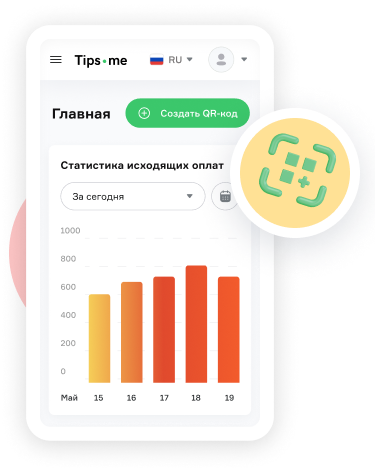
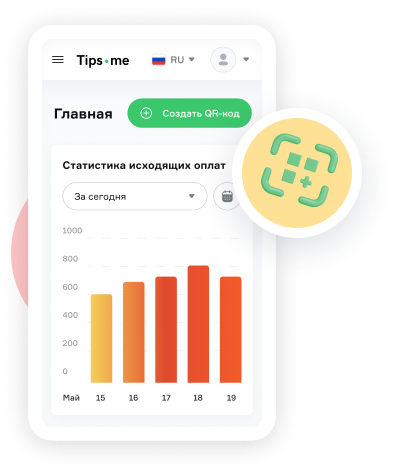
fix image in PageBanner

diff --git a/src/landing/components/PageBanner/PageBanner.jsx b/src/landing/components/PageBanner/PageBanner.jsx
@@ -1,19 +1,23 @@
-import { useMediaQuery } from 'react-responsive'
-import Img from 'next/image'
+import Image from 'next/image'
 
 import * as S from './PageBanner.styled'
 
 import CheckIcon from '@public/icons/checkmark.svg'
 
 export const PageBanner = ({ title, subtitle, features = [], actions, img }) => {
-  const screenMore630 = useMediaQuery({ minWidth: 631 })
-
   const featureList = features.map((text) => (
     <li key={text}>
       <CheckIcon />
       {text}
     </li>
   ))
+
+  const bannerImgProps = {
+    alt: 'dashboard',
+    layout: 'fixed',
+    priority: true,
+    unoptimized: true
+  }
 
   return (
     <S.PageBanner>
@@ -30,13 +34,12 @@ export const PageBanner = ({ title, subtitle, features = [], actions, img }) => 
 
         <S.ImgContainer>
           <S.Img>
-            <Img
-              src={screenMore630 ? img.desktop : img.mobile}
-              alt="dashboard"
-              layout="fixed"
-              unoptimized
-            />
+            <Image {...bannerImgProps} src={img.desktop} />
           </S.Img>
+
+          <S.ImgMobile>
+            <Image {...bannerImgProps} src={img.mobile} />
+          </S.ImgMobile>
         </S.ImgContainer>
       </S.Wrapper>
     </S.PageBanner>

diff --git a/src/pages/main/sections/WhereCanUse/components/Box/Box.jsx b/src/pages/main/sections/WhereCanUse/components/Box/Box.jsx
@@ -1,4 +1,4 @@
-import Img from 'next/image'
+import Image from 'next/image'
 
 import * as S from './Box.styled'
 
@@ -18,12 +18,12 @@ export const Box = ({ title, subtitle, points = [], preview }) => {
         {Array.isArray(preview) ? (
           preview.map(({ label, img }) => (
             <S.ImgContainer key={label}>
-              <Img src={img} alt={label} />
+              <Image src={img} alt={label} />
             </S.ImgContainer>
           ))
         ) : (
           <S.TopBox>
-            <Img src={preview} alt={title} />
+            <Image src={preview} alt={title} />
           </S.TopBox>
         )}
       </S.Top>

diff --git a/src/landing/sections/TrustUs/TrustUs.jsx b/src/landing/sections/TrustUs/TrustUs.jsx
@@ -1,7 +1,7 @@
 import { useState, useEffect } from 'react'
 import { Swiper, SwiperSlide } from 'swiper/react'
 import SwiperCore, { Controller, Autoplay } from 'swiper/core'
-import Img from 'next/image'
+import Image from 'next/image'
 
 import { Section } from 'landing/components'
 
@@ -53,7 +53,7 @@ export const TrustUsSection = () => {
     return logos.map(({ label, logo }) => (
       <SwiperSlide key={label}>
         <S.LogoCard>
-          <Img src={logo} alt={label} />
+          <Image src={logo} alt={label} />
         </S.LogoCard>
       </SwiperSlide>
     ))

diff --git a/src/landing/sections/MediaAboutUs/MediaAboutUs.jsx b/src/landing/sections/MediaAboutUs/MediaAboutUs.jsx
@@ -1,6 +1,6 @@
 import { Swiper, SwiperSlide } from 'swiper/react'
 import SwiperCore, { Autoplay } from 'swiper/core'
-import Img from 'next/image'
+import Image from 'next/image'
 
 import { Section } from 'landing/components'
 
@@ -56,7 +56,7 @@ export const MediaAboutUsSection = () => {
     <SwiperSlide key={label}>
       <S.QuoteCard>
         <S.Logo>
-          <Img src={logo} alt={label} />
+          <Image src={logo} alt={label} />
         </S.Logo>
         <S.Text>{quote}</S.Text>
         <QuoteIcon />

diff --git a/src/landing/components/ServiceWorkSteps/ServiceWorkSteps.jsx b/src/landing/components/ServiceWorkSteps/ServiceWorkSteps.jsx
@@ -1,5 +1,5 @@
 import { useMediaQuery } from 'react-responsive'
-import Img from 'next/image'
+import Image from 'next/image'
 
 import * as S from './ServiceWorkSteps.styled'
 
@@ -22,7 +22,7 @@ export const ServiceWorkSteps = () => {
 
   const stepList = steps.map(({ title, img }, idx) => (
     <li key={title}>
-      <Img src={img} alt={title} />
+      <Image src={img} alt={title} />
       <S.Text>{title}</S.Text>
       {screenMore1150 && <S.Counter>{idx + 1}</S.Counter>}
     </li>

diff --git a/src/pages/main/sections/Users/components/RowSection/RowSection.jsx b/src/pages/main/sections/Users/components/RowSection/RowSection.jsx
@@ -1,4 +1,4 @@
-import Img from 'next/image'
+import Image from 'next/image'
 import Link from 'next/link'
 
 import { Button } from 'ui'
@@ -31,7 +31,7 @@ export const RowSection = ({ title, subtitle, detailsLink, features, action, img
       </S.Left>
 
       <S.ImgContainer>
-        <Img src={img} alt={`${title} dashboard`} />
+        <Image src={img} alt={`${title} dashboard`} />
         <S.Circle />
       </S.ImgContainer>
     </S.RowSection>

diff --git a/src/landing/components/PageBanner/PageBanner.styled.js b/src/landing/components/PageBanner/PageBanner.styled.js
@@ -143,9 +143,20 @@ export const Img = styled.div`
   }
 
   ${media630} {
-    left: 50%;
-    bottom: -495px;
-    transform: translateX(-50%);
+    display: none;
+  }
+`
+
+export const ImgMobile = styled.div`
+  display: none;
+  position: absolute;
+  left: 50%;
+  bottom: -495px;
+  transform: translateX(-50%);
+  z-index: 10;
+
+  ${media630} {
+    display: block;
   }
 
   ${media.mobile} {

diff --git a/src/landing/sections/Tariffs/Tariffs.jsx b/src/landing/sections/Tariffs/Tariffs.jsx
@@ -1,4 +1,4 @@
-import Img from 'next/image'
+import Image from 'next/image'
 
 import { Section } from 'landing/components'
 import { Button } from 'ui'
@@ -21,7 +21,7 @@ export const TariffsSection = () => (
       </S.Card>
 
       <S.Img>
-        <Img src={backgroundImg} alt="фон" />
+        <Image src={backgroundImg} alt="фон" />
       </S.Img>
     </S.Content>
   </Section>
